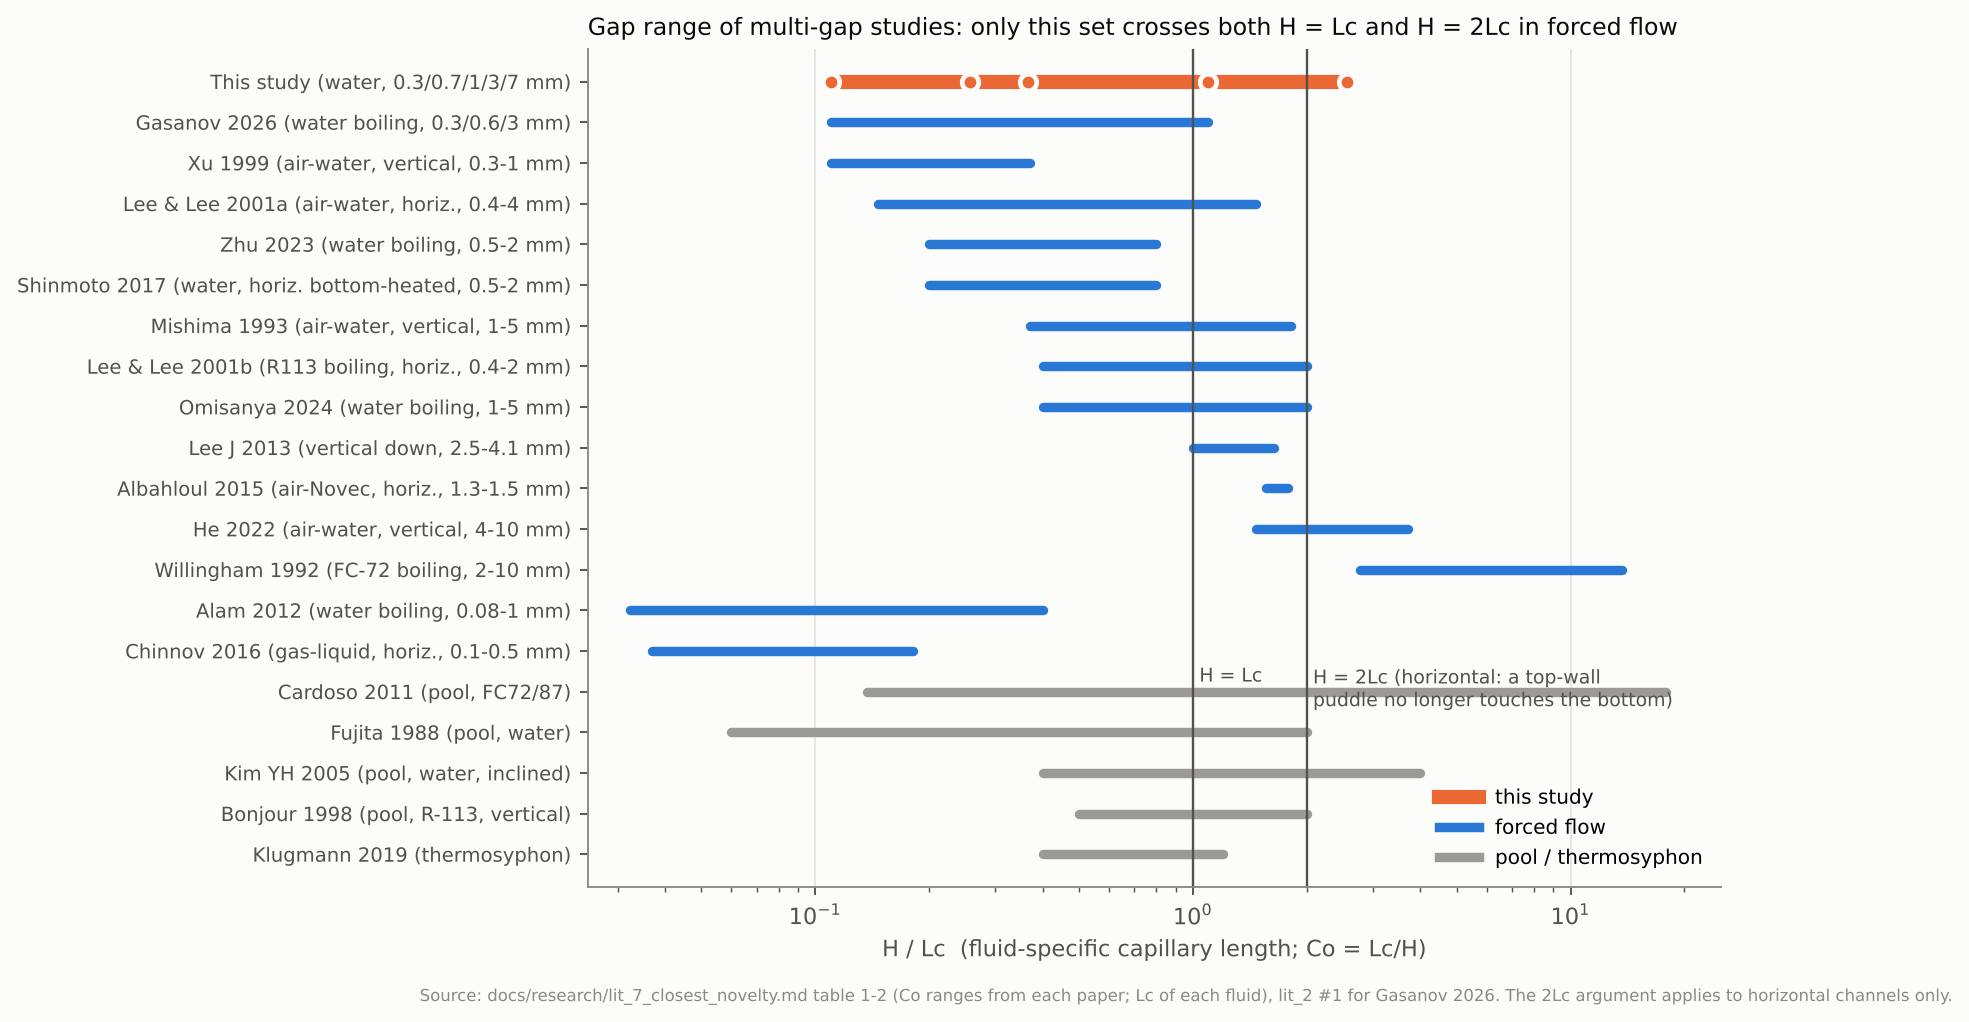
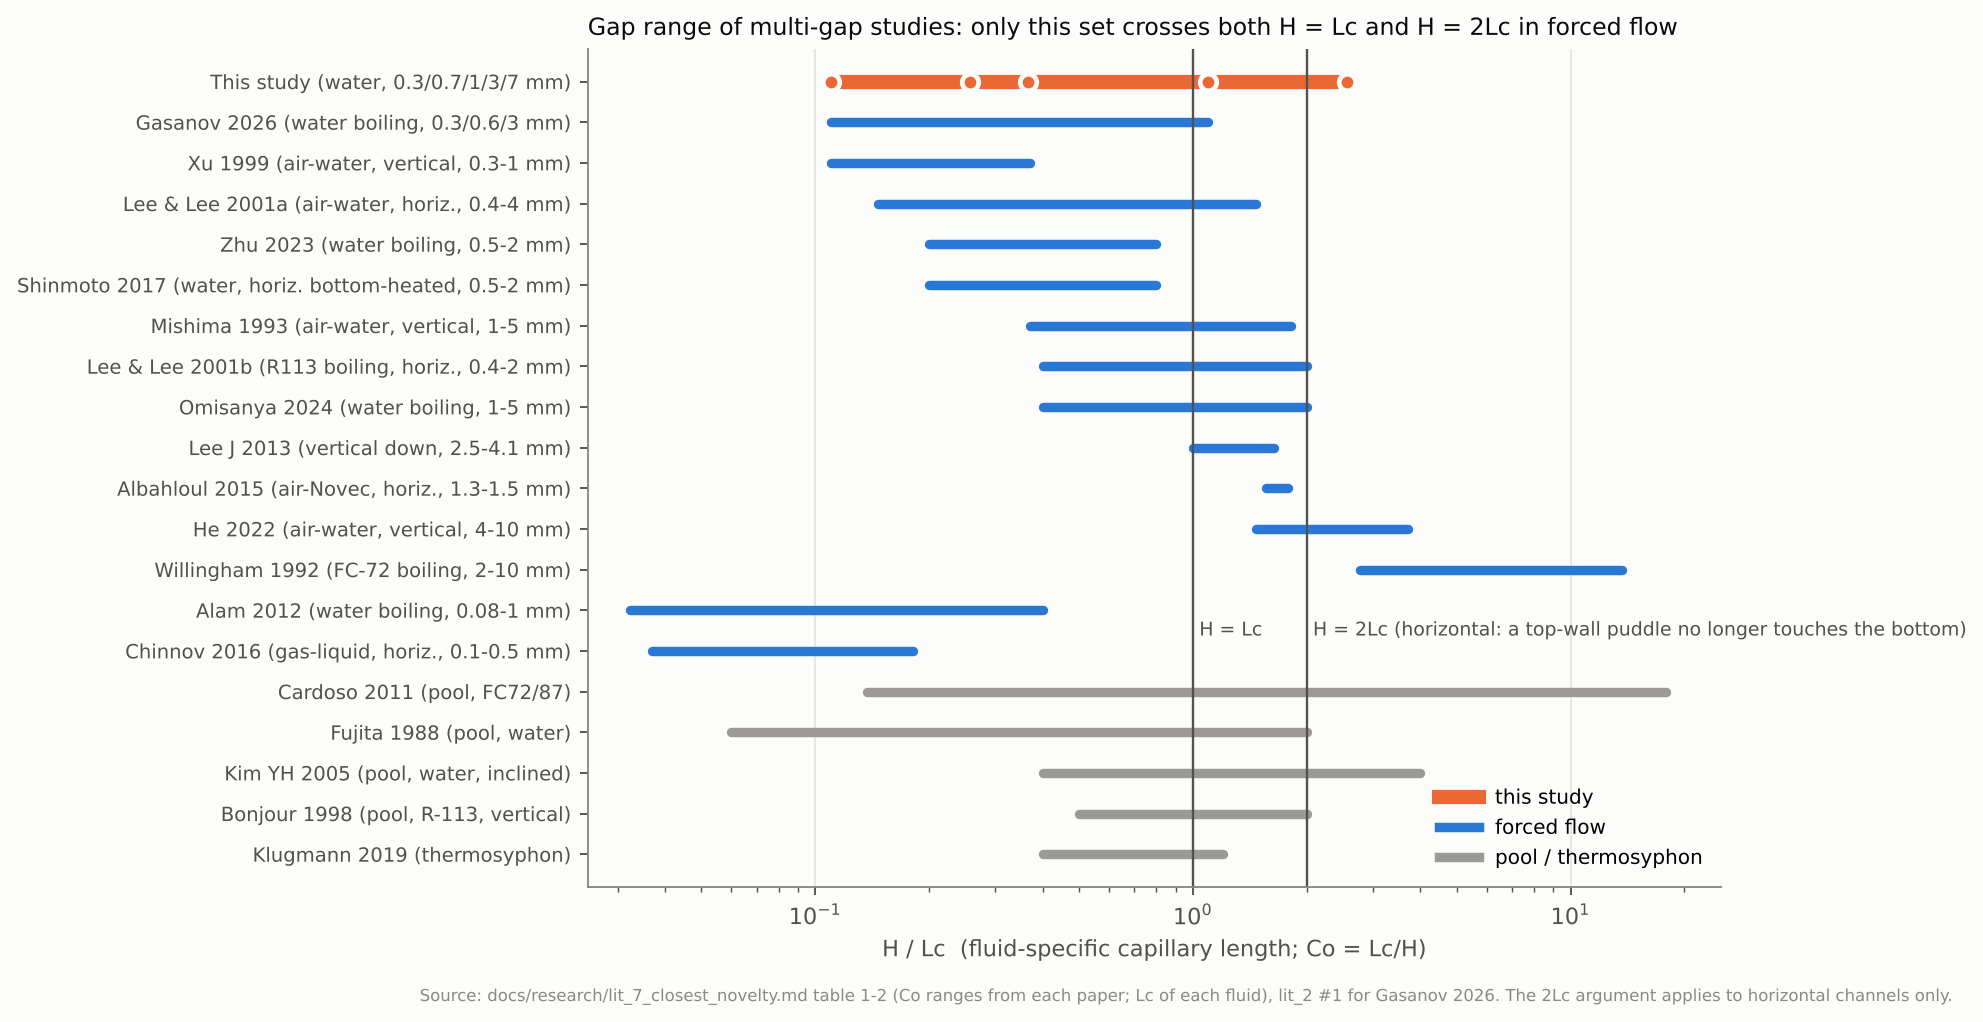
docs: 갭 범위 위치 그림 라벨 위치 수정
Claude-Session: https://claude.ai/code/session_01QFVWo3BPZ98Eh7jXYmYxkN

diff --git a/docs/research/fig/src/fig_positioning.py b/docs/research/fig/src/fig_positioning.py
@@ -38,9 +38,9 @@ for i,(lab,kind,cmax,cmin) in enumerate(rows):
     if kind=="ours":
         for H in (0.3,0.7,1,3,7):
             ax.plot(H/2.73,y,"o",ms=7,mfc=col,mec=SURF,mew=2)
-for x,t in ((1,"H = Lc"),(2,"H = 2Lc (horizontal: a top-wall\npuddle no longer touches the bottom)")):
+for x,t in ((1,"H = Lc"),(2,"H = 2Lc (horizontal: a top-wall puddle no longer touches the bottom)")):
     ax.axvline(x,color=INK2,lw=1)
-    ax.text(x*1.04,4.6,t,fontsize=8,color=INK2,va="top")
+    ax.text(x*1.04,5.5,t,fontsize=8,color=INK2,va="center")
 ax.set_yticks(range(n)); ax.set_yticklabels([r[0] for r in rows][::-1],fontsize=8.3)
 ax.set_xscale("log"); ax.set_xlim(0.025,25); ax.set_ylim(-0.8,n-0.2)
 ax.set_xlabel("H / Lc  (fluid-specific capillary length; Co = Lc/H)")
